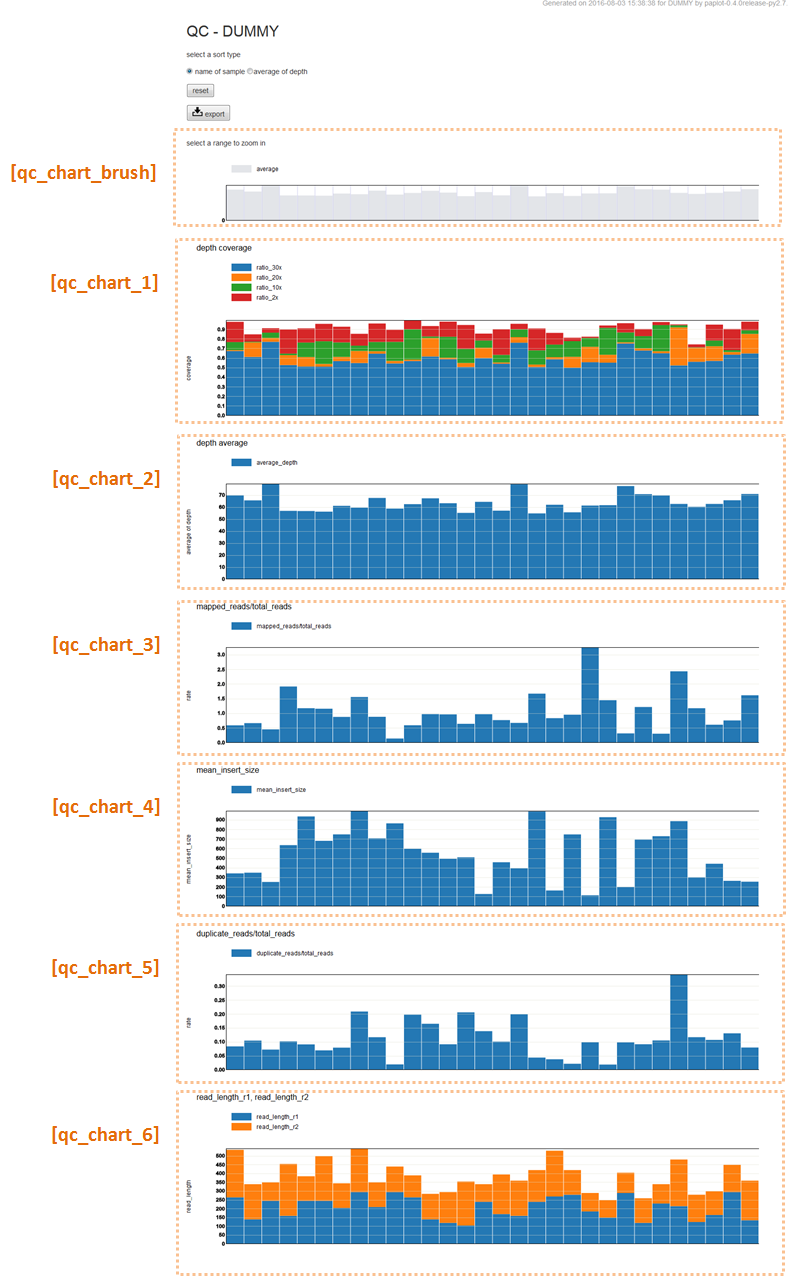
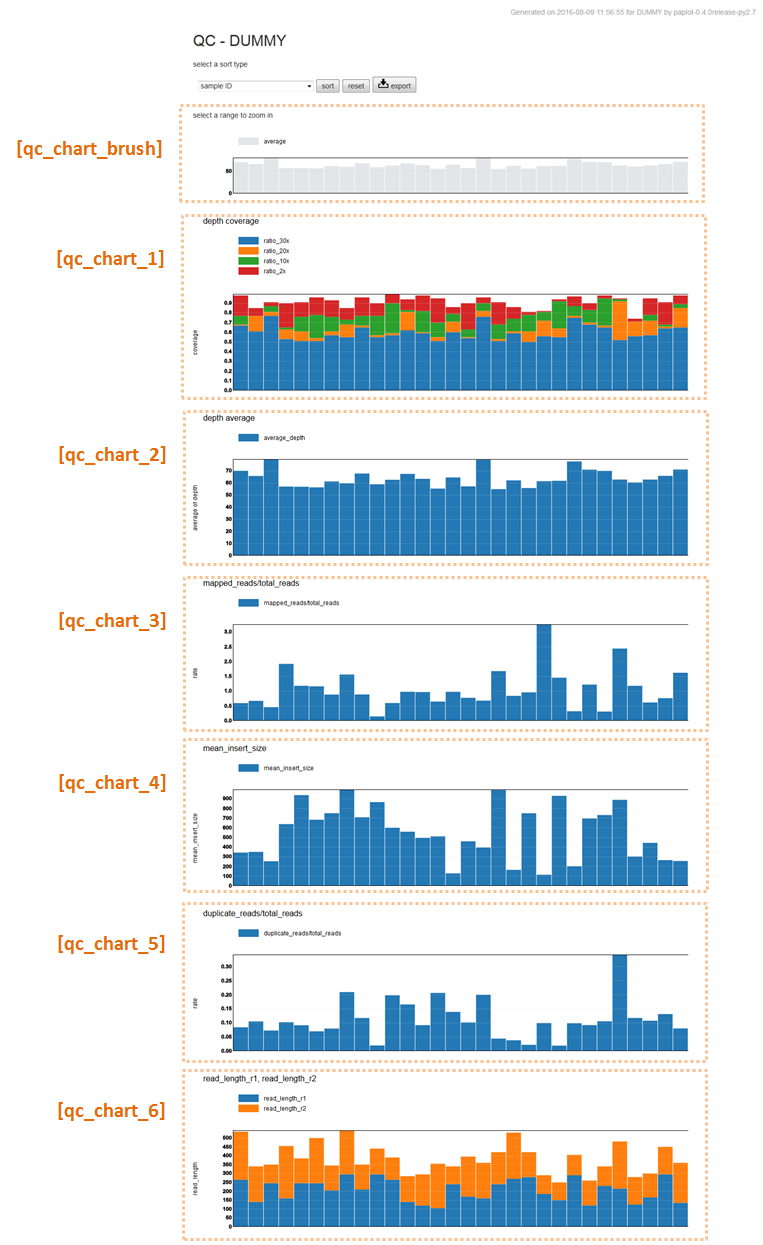
modify layout

diff --git a/style.rst b/style.rst
@@ -118,6 +118,10 @@
       
   // style of quality check graphs
   style_qc = {
+      brush_border_y_color: "#DDDDCC",
+      brush_border_y_opacity: 0.5,
+      plot_border_y_color: "#DDDDCC",
+      plot_border_y_opacity: 0.2,
   };
 
   // style of genome-wide bar plot
@@ -126,6 +130,13 @@
       title_top: "Genome-wide SVs identify",
       title_y: "samples with SV breakp.",
       title_x: "Chromosome",
+      
+      border_x_main_color: "#E0E0E0",
+      border_x_main_width: "1px",
+      border_x_sub_color: "#A6A6A6",
+      border_x_sub_width: "1px",
+      border_y_color: "#DDDDCC",
+      border_y_opacity: 0.5,
   };
 
   // style of thumbnails
@@ -171,17 +182,31 @@
       // title's text options
       title_sample: "Sample",
       title_sample_y: "Number of mutation",
+      virtical_border_x_color: "#CCCCEE",
+      virtical_border_x_width: "1px",
+      virtical_border_y_color: "#DDDDCC",
+      virtical_border_y_opacity: 0.5,
       
       title_gene: "Genes",
       title_gene_y1: "% Samples",
       title_gene_y2: "with mutation",
+      horizon_border_x_color: "#CCCCEE",
+      horizon_border_x_width: "1px",
+      horizon_border_y_color: "#DDDDCC",
+      horizon_border_y_opacity: 0.5,
       
       func_title: "functions",
+      
+      sub_border_color: "#FFFFFF",
+      sub_border_width: "1px",
+      
   };
   })();
 
-  
-透過度(opacity) について、設定値と見た目は次の通りです。
+
+| 透過度(opacity) について、設定値と見た目は次の通りです。
+| 0~1の間で設定することができ、0で透明、1で不透明となります。
+|
 
 .. image:: image/link-opacity.PNG
   :scale: 100%

diff --git a/qa.rst b/qa.rst
@@ -110,6 +110,10 @@ Safariの場合
 |   Safari→環境設定→セキュリティ→Webコンテンツ→「ポップアップウィンドウを開かない」チェックを外す
 |
 
+| なお、1プロットのみ保存したい場合は、それぞれのプロットの上で右クリックで保存することも可能です。
+|
+
+.. image:: image/qa_export2.PNG
 
 グラフの色が黒くなる
 ----------------------------
